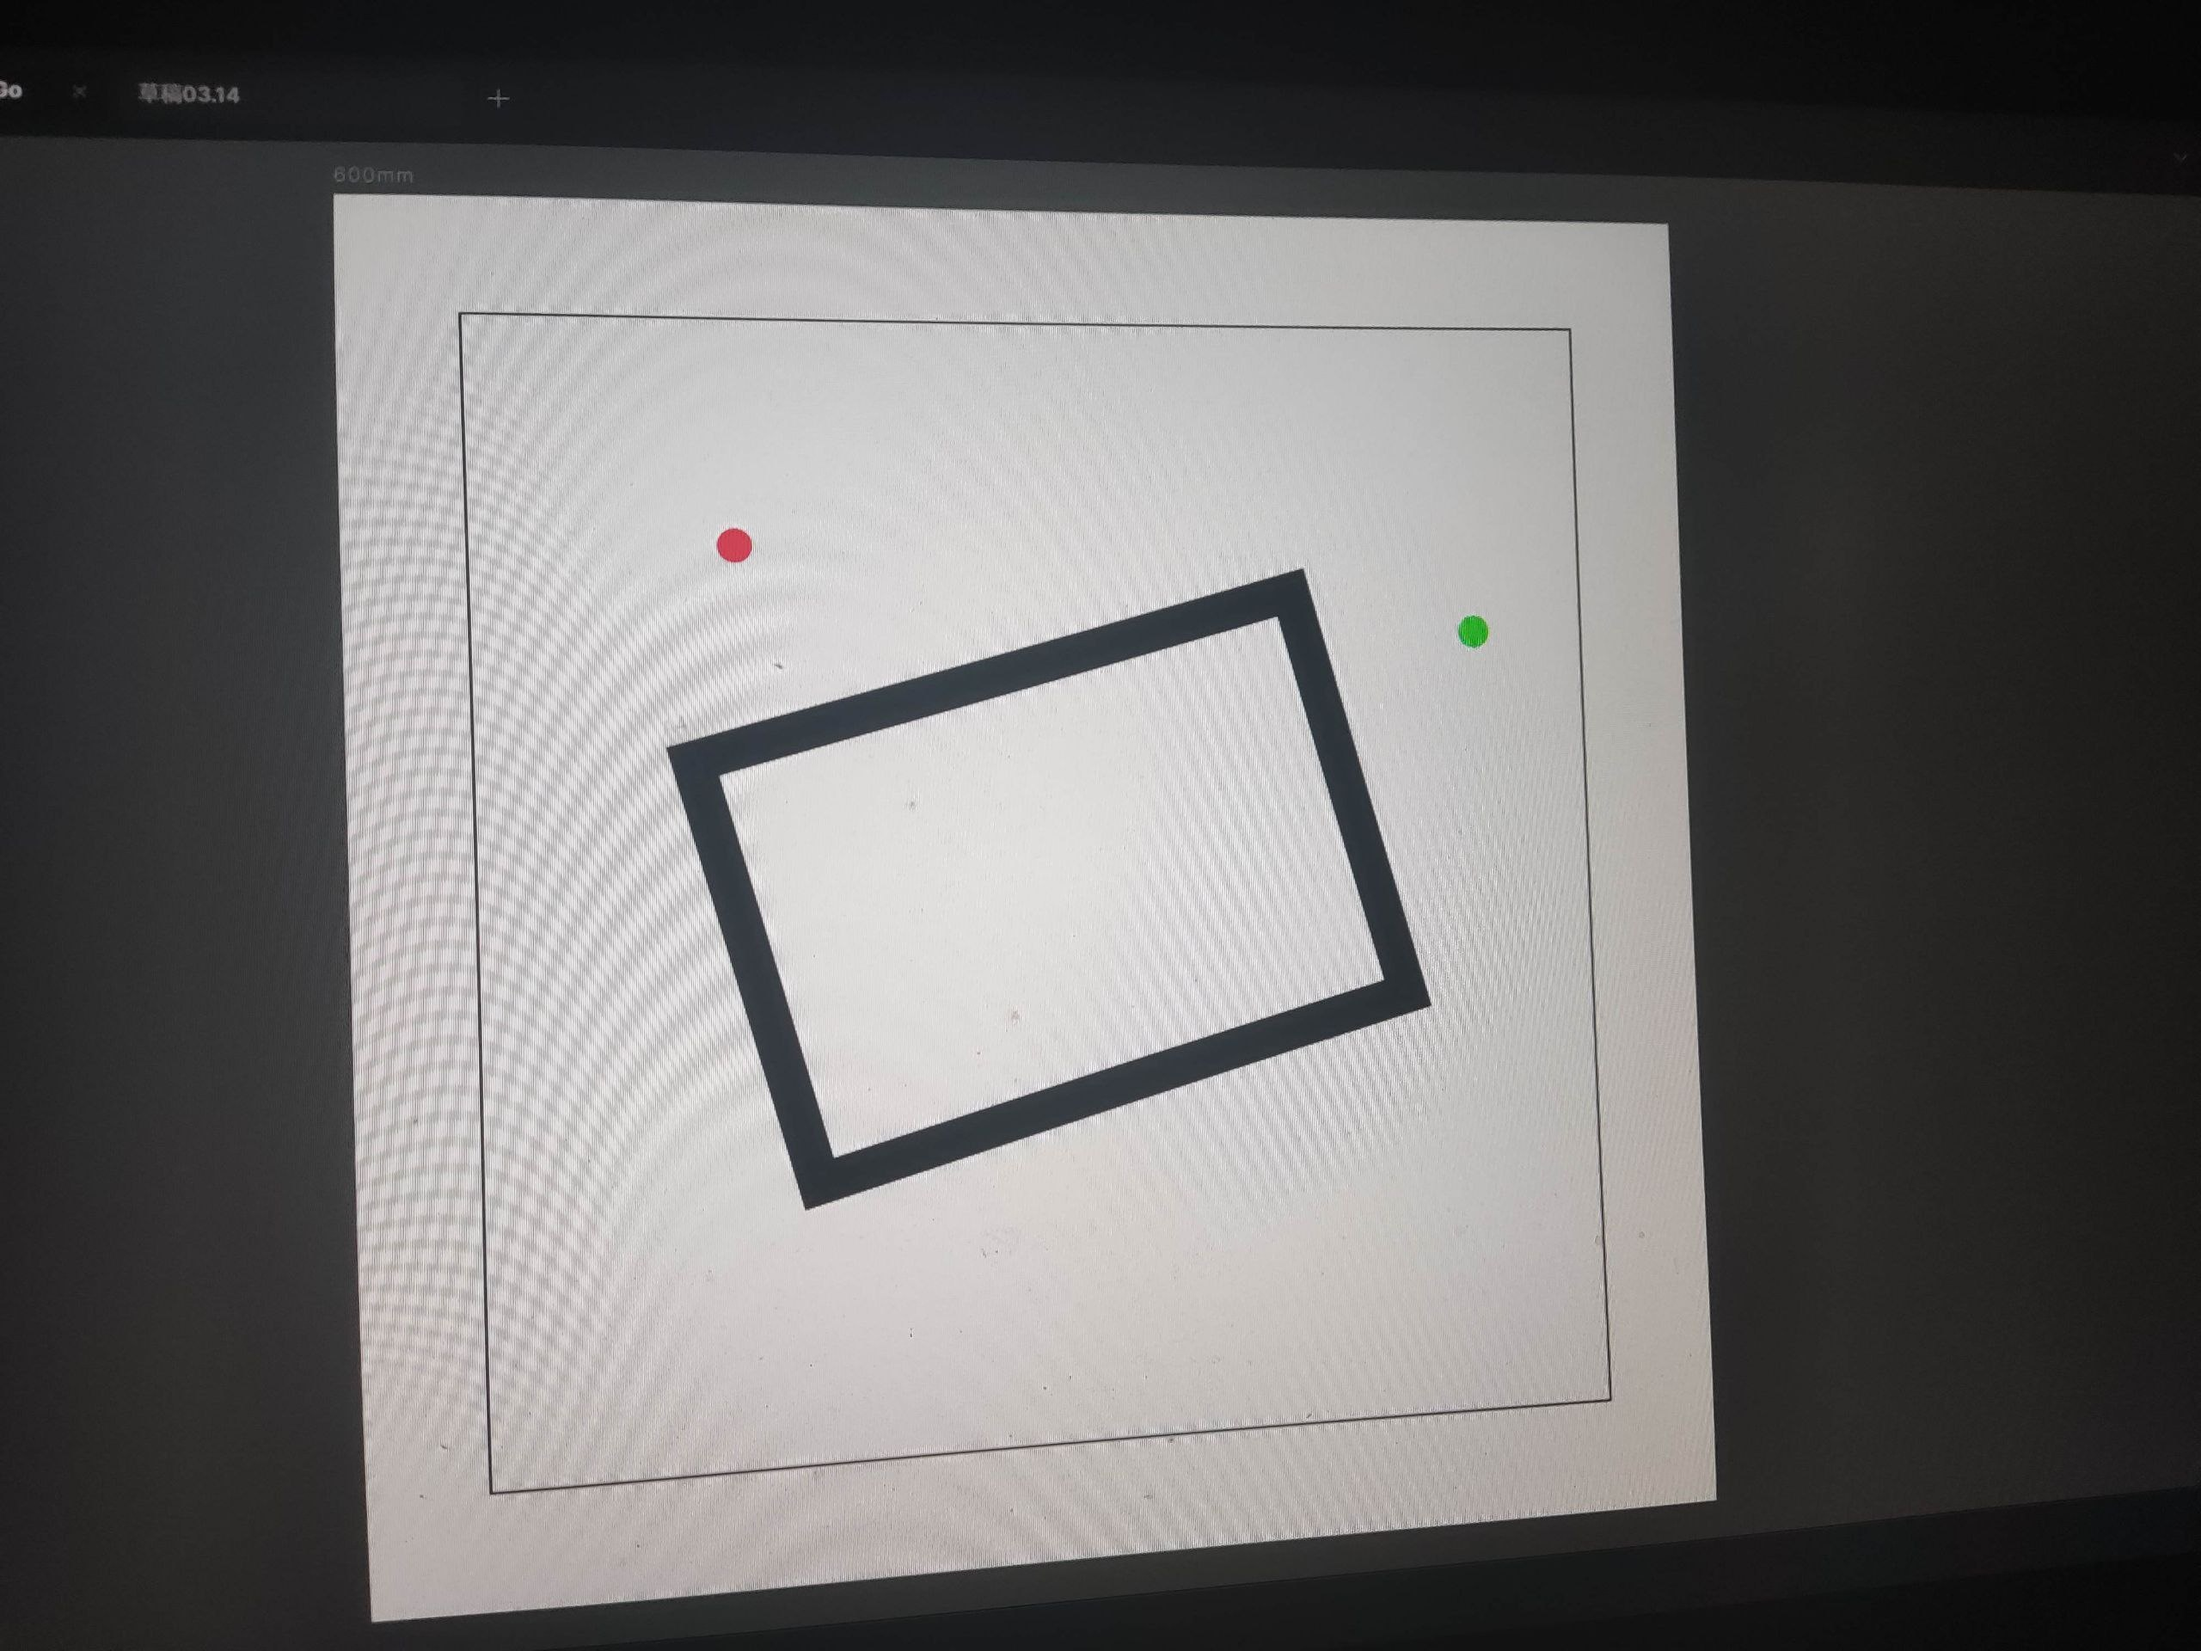
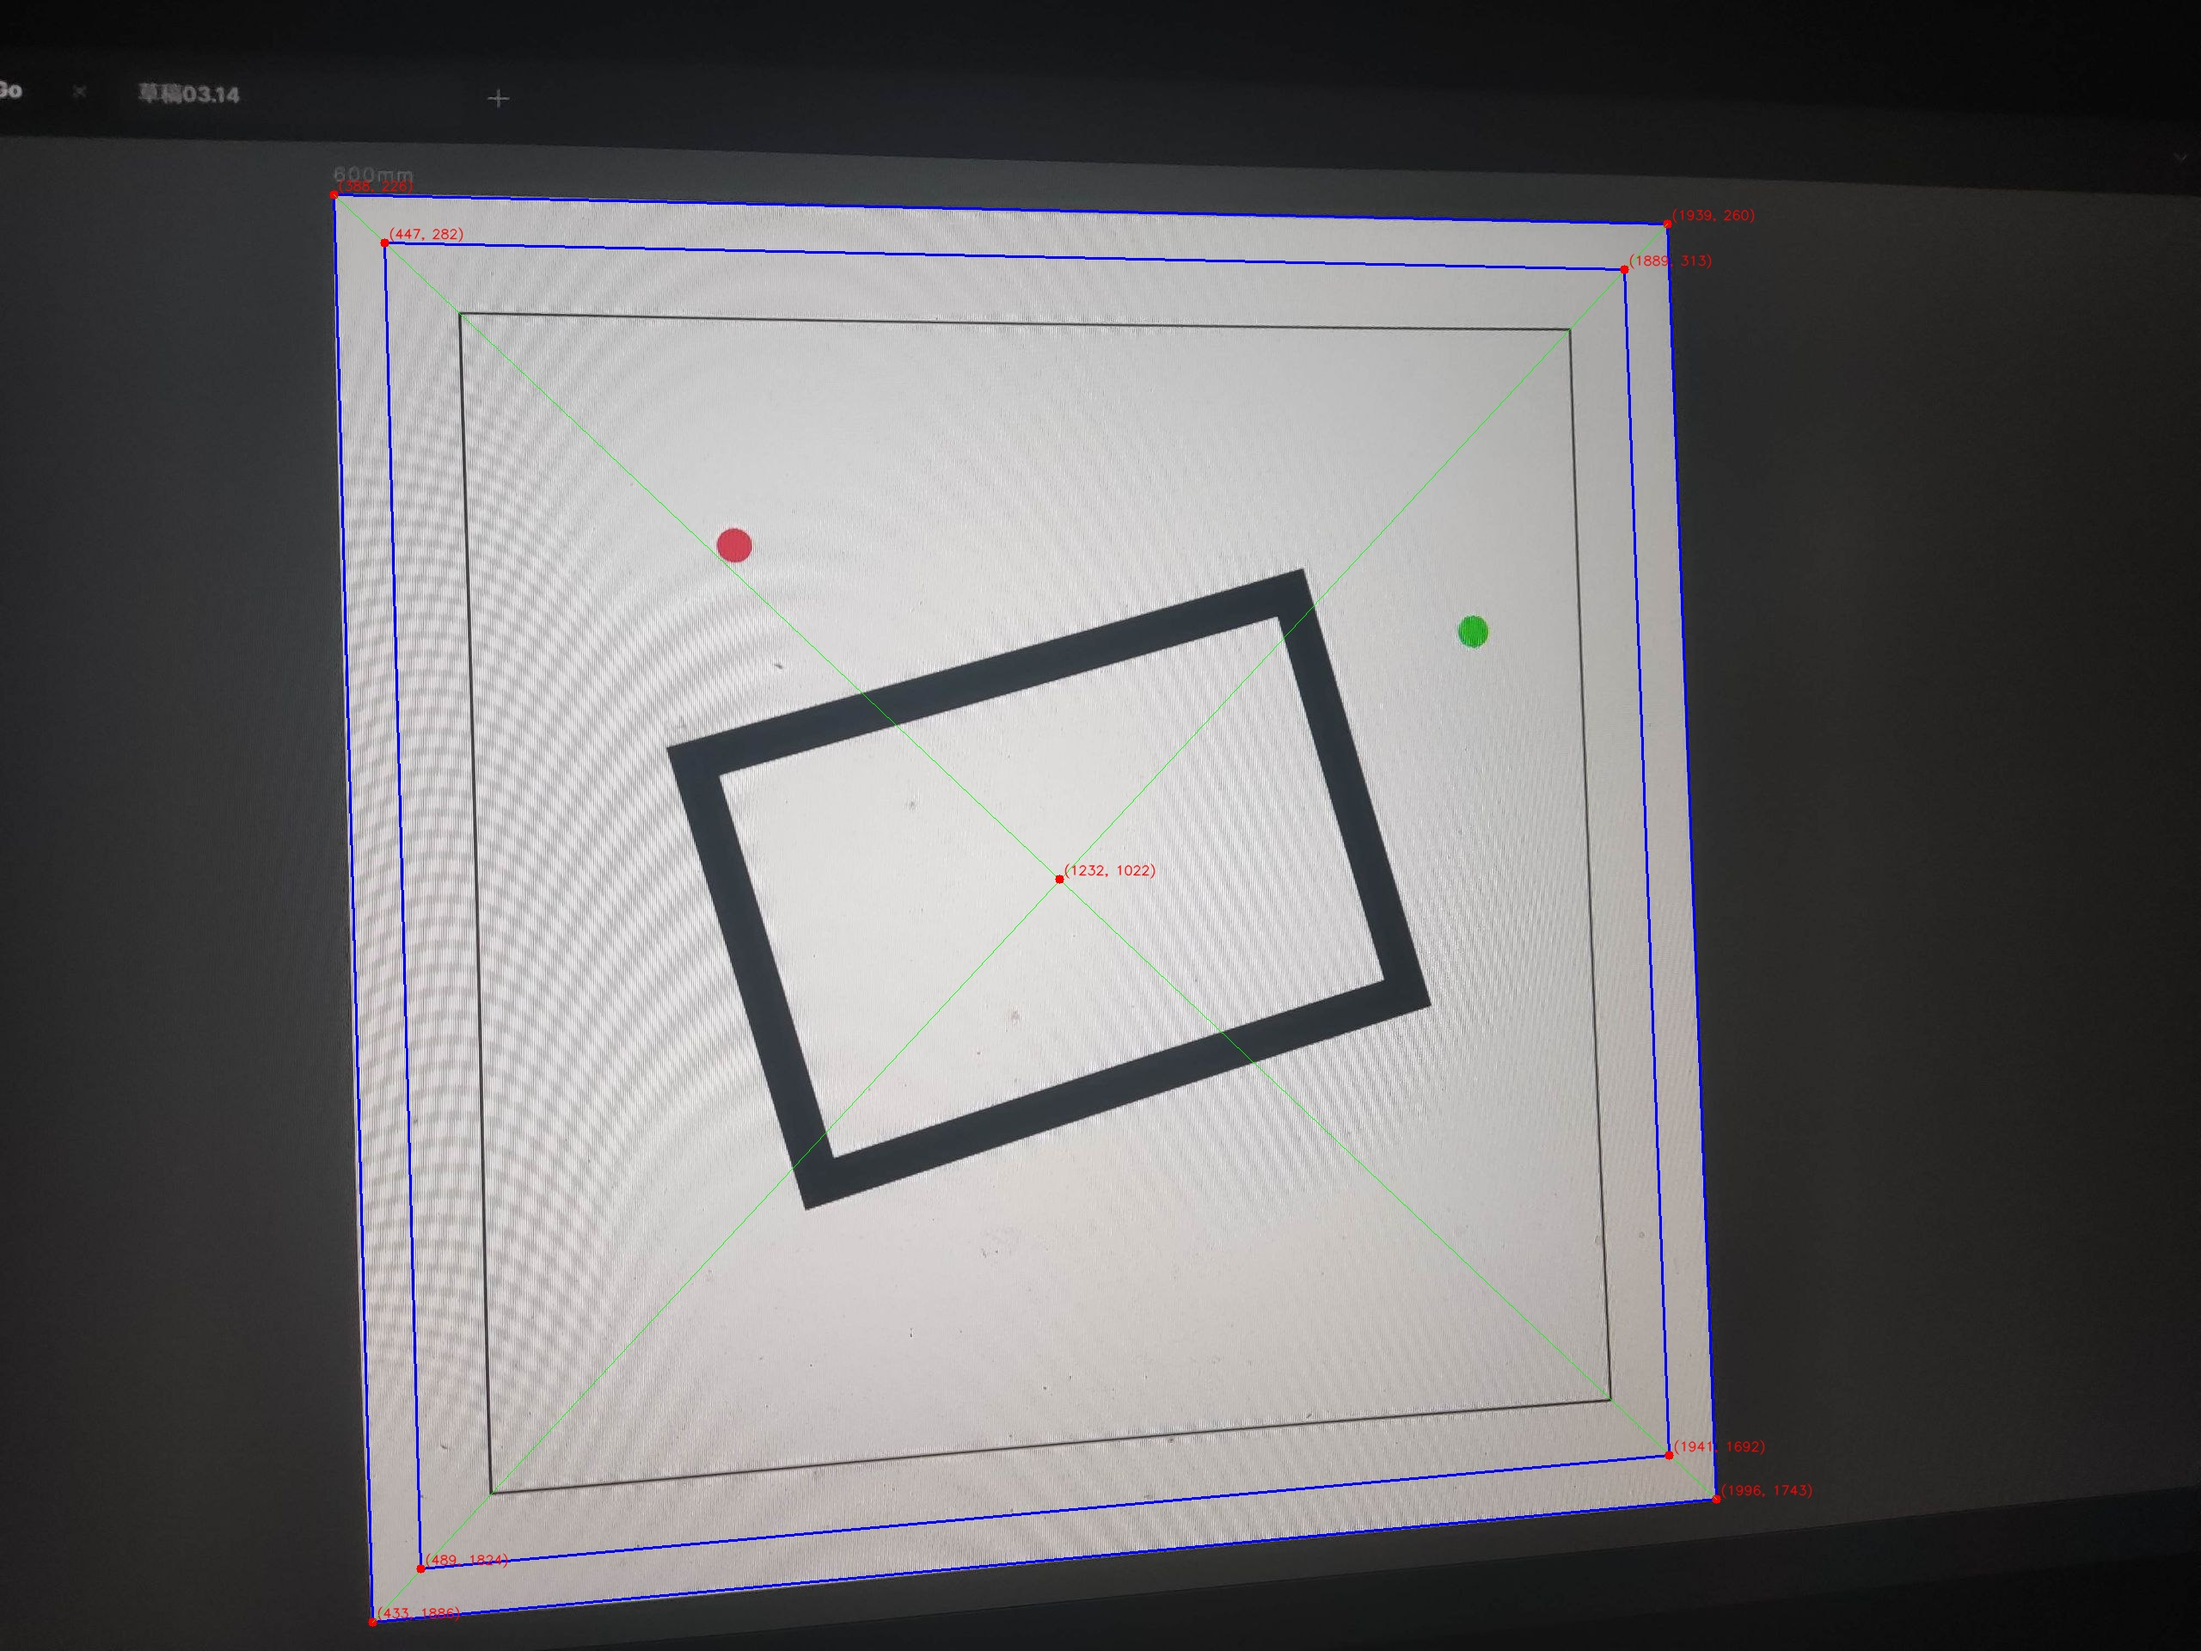
fix🐛:  修复控制台 vertices 报错

diff --git a/stream.py b/stream.py
@@ -13,7 +13,7 @@ class ThreadedCamera(object):
         self.capture = cv2.VideoCapture(url)
         self.capture.set(cv2.CAP_PROP_BUFFERSIZE, 2)  # 设置最大缓冲区大小
 
-        # 设定帧率为30帧每秒
+        # 设定帧率
         self.FPS = 1 / 60
         self.FPS_MS = int(self.FPS * 1000)
 
@@ -37,9 +37,10 @@ class ThreadedCamera(object):
         contours = preprocess_image(frame)
         if contours is not None:
             vertices = find_max_perimeter_contour(contours, 999999999, 300*4) # 最大允许周长
+            print(f"四个顶点坐标:\n {vertices}")
 
         if vertices is not None:
-            frame = draw_contour_and_vertices(frame, vertices, (500/600)) # 外框与内框宽度之比 靶纸是 (276/297)
+            frame = draw_contour_and_vertices(frame, vertices, (500/600)) # 外框与内框宽度之比 
 
         processed_frame = frame
         
@@ -68,23 +69,10 @@ class ThreadedCamera(object):
         #cv2.resizeWindow('Processed Stream', 800, 600)
 
         cv2.imshow('Original MJPEG Stream', self.frame)
-        processed_frame = self.process_frame_outside(self.frame)
+        processed_frame = self.process_frame_outside(self.frame)  #!记得改这里
         if processed_frame is not None:
             cv2.imshow('Processed Stream', processed_frame)
         cv2.waitKey(self.FPS_MS)
-
-""" if __name__ == '__main__':
-    # 320x240 640x480 960x720 1280x720 1920x1080
-    stream_url = 'http://192.168.100.4:4747/video?640x480'
-    threaded_camera = ThreadedCamera(stream_url)
-    
-    while True:
-        try:
-            threaded_camera.show_frame()
-        except AttributeError:
-            pass """
-
-
 
 def generate_frames():        
     # 320x240 640x480 960x720 1280x720 1920x1080
@@ -96,7 +84,7 @@ def generate_frames():
         frame = stream.frame
         if frame is not None:
             try:
-                processed_frame = stream.process_frame_inside(frame)
+                processed_frame = stream.process_frame_outside(frame)
                 # 将处理后的帧编码为JPEG格式
                 _, jpeg_buffer = cv2.imencode('.jpg', processed_frame)
 

diff --git a/cam8.py b/cam8.py
@@ -1,7 +1,7 @@
 import cv2
 import numpy as np
 
-from typing import List, Tuple
+from typing import List
 
 def calculate_intersection(vertices):
     """
@@ -120,7 +120,7 @@ def find_max_perimeter_contour(contours, max_allowed_perimeter, min_allowed_peri
     # 检查是否找到符合条件的轮廓
     if vertices is None:
         # 返回空列表代替None，或可选择抛出异常
-        return []
+        return None
     else:
         return vertices
 
@@ -136,8 +136,13 @@ def draw_contour_and_vertices(img: cv2.Mat, vertices: List[List[int]], scale: fl
     :return: 绘制后的图像
     """
 
-    try:
-        cv2.drawContours(img, [vertices], 0, (255, 0, 0), 2)  # 绘制四边形的边框
+    try:   
+        if vertices is not None:
+            # 将四边形顶点列表转换为适合drawContours()的格式
+            contour = np.array([vertices], dtype=np.int32)  # 创建一个二维numpy数组，形状为(1, N, 2)，其中N为顶点数
+            cv2.drawContours(img, [contour], 0, (255, 0, 0), 2)  # 绘制四边形的边框
+        else: 
+            print("顶点无效或缺失,跳过轮廓绘制。")  
 
         for i, vertex in enumerate(vertices):  # 绘制每个角点和坐标
             cv2.circle(img, (vertex[0], vertex[1]), 5, (0, 0, 255), -1)
